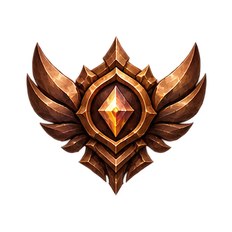
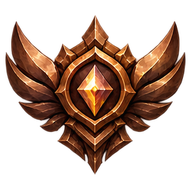
Achievement Toast: Rank emblem cropped to its edges, nearly meeting the tile frame
rank_<rank>_tile.png is now cropped to a common 190 px square, the widest
emblem touching its sides, and the tile draws a Rank emblem with a 5 px
inset (emblemInset) instead of the trophy's 10 px, so it fills about 85%
of the tile instead of about 55%.

diff --git a/common/achievement_toast.js b/common/achievement_toast.js
@@ -51,6 +51,8 @@ const BASE_LOOK = Object.freeze({
     tileGap: 20,
     tileFrame: 3,
     iconInset: 10,
+    // A Rank emblem's image is cropped to its edges: it nearly meets the frame.
+    emblemInset: 5,
     // One-pixel frames, so the glow widens with the tile.
     glowRings: 10,
     smallFont: 11,
@@ -118,9 +120,9 @@ const scaleLook = scale => Object.freeze(Object.fromEntries(
     Object.entries(BASE_LOOK).map(([name, size]) => [name, Math.round(size * scale)])));
 
 // Dark tile with an accent frame, a soft accent glow made of fading
-// frames, and the icon, or else the number in the accent.
-function drawTile(host, dc, look, x, y, accent, { iconPath, number }) {
-    const { tileSize, glowRings, iconInset } = look;
+// frames, and the icon inset by iconInset, or else the number in the accent.
+function drawTile(host, dc, look, x, y, accent, { iconPath, iconInset, number }) {
+    const { tileSize, glowRings } = look;
     const accentRgb = accent & 0xFFFFFF;
     for (let ring = glowRings; ring >= 1; ring--) {
         const alpha = Math.round(GLOW_MAX_ALPHA * (1 - ring / (glowRings + 1)));
@@ -145,8 +147,8 @@ function drawTile(host, dc, look, x, y, accent, { iconPath, number }) {
 // (rotation-aware) and returns its height and the layout height.
 // Backgrounds use fillRect and frameRect: a StyledText holding only a
 // space draws no background.
-// iconPathOf(toast, iconFile): the absolute path of the tile's icon.
-function drawCard(host, dc, look, toast, iconPathOf) {
+// iconOf(toast, iconFile): the tile's icon, { path, isEmblem }.
+function drawCard(host, dc, look, toast, iconOf) {
     const { cardWidth, edgeMargin, accentBarWidth, tileSize, tileGap, smallFont } = look;
     const kindLook = KIND_LOOKS[toast.kind || TOAST_KIND.ACHIEVEMENT];
     const accent = toast.accent || RANK_COLORS[toast.rank] || kindLook.accent;
@@ -165,8 +167,9 @@ function drawCard(host, dc, look, toast, iconPathOf) {
     fillGradient(dc, x, y, cardWidth, height, COLORS.gradientTop, COLORS.gradientBottom);
     dc.frameRect(x, y, cardWidth, height, look.border, COLORS.border);
     dc.fillRect(x, y, accentBarWidth, height, accent);
-    drawTile(host, dc, look, x + accentBarWidth + tileGap, y + (height - tileSize) / 2, accent, kindLook.iconFile
-        ? { iconPath: iconPathOf(toast, kindLook.iconFile) }
+    const icon = kindLook.iconFile ? iconOf(toast, kindLook.iconFile) : null;
+    drawTile(host, dc, look, x + accentBarWidth + tileGap, y + (height - tileSize) / 2, accent, icon
+        ? { iconPath: icon.path, iconInset: icon.isEmblem ? look.emblemInset : look.iconInset }
         : { number: toast.tileNumber });
     text.draw(dc, { x: x + textLeft, y: y + (height - textHeight) / 2, width: textWidth, height: textHeight });
     return { height, layoutHeight: size.height };
@@ -213,8 +216,8 @@ export function createAchievementToasts(host, {
     // False for ARRIVAL_GAP_MS after a card arrives, so a batch arrives staggered.
     let arrivalOpen = true;
 
-    // The plain emblem cropped like the trophy, so it fills the tile as much;
-    // the list keeps the uncropped one, framed like its muted twin.
+    // The plain emblem cropped to its edges, so it fills the tile; the list
+    // keeps the uncropped one, framed like its muted twin.
     function rankEmblemOf(rank) {
         if (!rankEmblems.has(rank)) {
             const path = `${projectFolder}\\assets\\rank_${rank}_tile.png`;
@@ -226,8 +229,9 @@ export function createAchievementToasts(host, {
     }
 
     // An Achievement Toast's Rank emblem, else the kind's icon.
-    function iconPathOf(toast, iconFile) {
-        return (toast.rank && rankEmblemOf(toast.rank)) || `${projectFolder}\\${iconFile}`;
+    function iconOf(toast, iconFile) {
+        const emblem = toast.rank ? rankEmblemOf(toast.rank) : null;
+        return emblem ? { path: emblem, isEmblem: true } : { path: `${projectFolder}\\${iconFile}`, isEmblem: false };
     }
 
     function placeLayer(card) {
@@ -297,7 +301,7 @@ export function createAchievementToasts(host, {
         const toast = waiting.shift();
         const layer = freeLayers.pop() || host.createDrawingLayer(ACHIEVEMENT_TOAST_Z_INDEX);
         let drawn = null;
-        layer.draw(dc => { drawn = drawCard(host, dc, look, toast, iconPathOf); });
+        layer.draw(dc => { drawn = drawCard(host, dc, look, toast, iconOf); });
         // Starts just below the bottom edge, then rises into place.
         const card = {
             layer, height: drawn.height, layoutHeight: drawn.layoutHeight,
